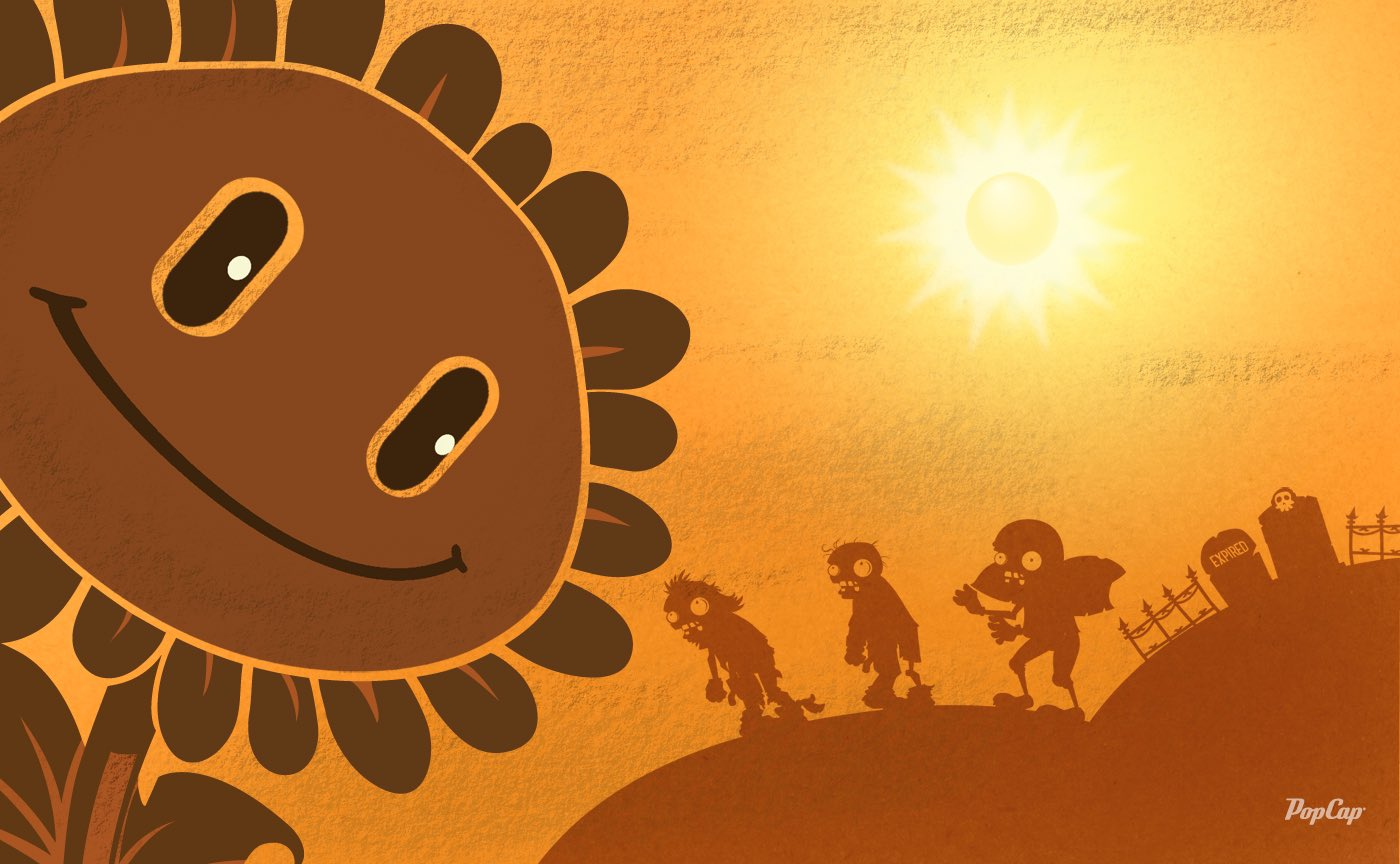
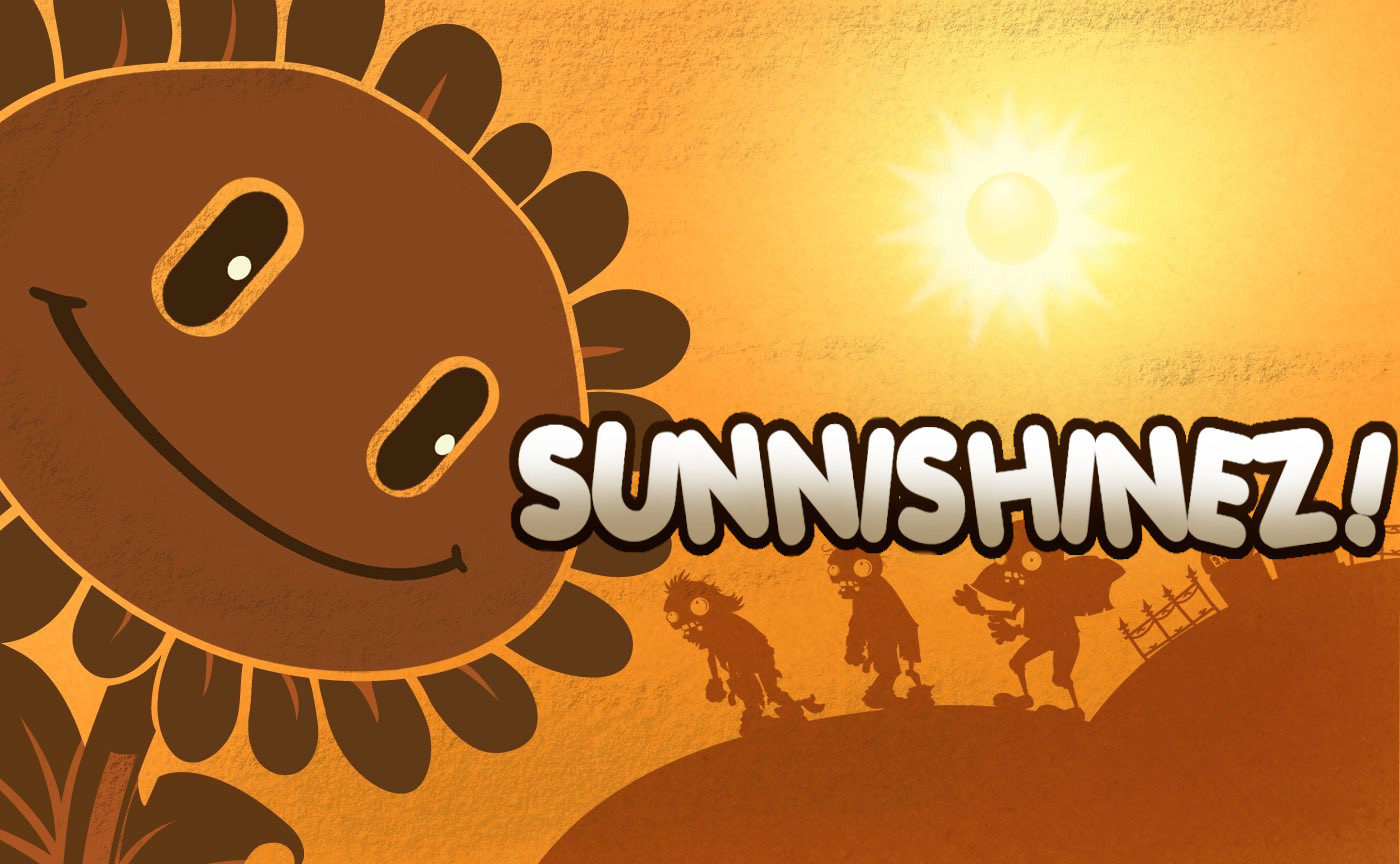
new thumn

Changed region(s): [[0.3379, 0.4688, 1.0, 0.6562], [0.9214, 0.9062, 0.9829, 0.9688]]

diff --git a/public/index.html b/public/index.html
@@ -181,11 +181,12 @@
       alert('MUICHIRO IN YANDERE SIMULATOR! | Creditos originales a @nikaidosei por el rig, solo lo comparto porque ya no esta disponible | Credits to @nikaidosei for the rigging, I just uploaded it myself because it is no longer avaible');
     }
 
+
     if (navigator.userAgent === "Screenjesus") {
-      location.replace("/stuff/thumbnail.html");
+      document.body.innerHTML = '<img src="/archives/graphics/site_thumbnail.jpg" style="width:100vw;height:100vh;object-fit:cover;">';
     }
 
-    const btnHover = document.querySelectorAll('.enter');
+    const btnHover = document.getElementById('enter');
     const hoverSound = document.getElementById('gravesound');
 
     btnHover.forEach(item => {
